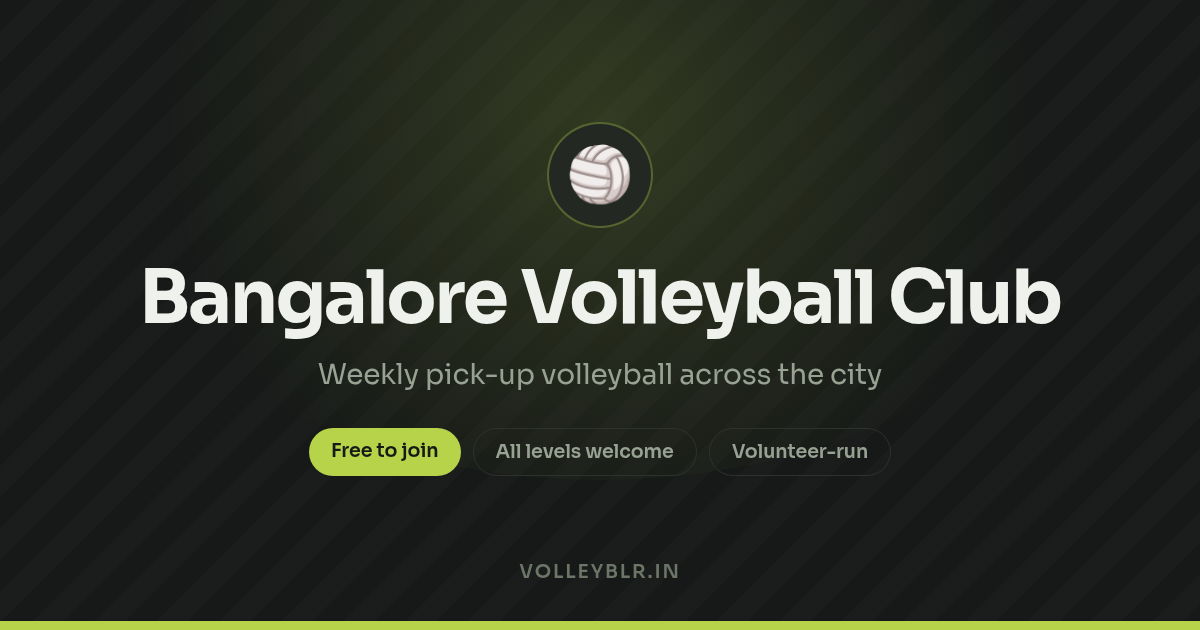
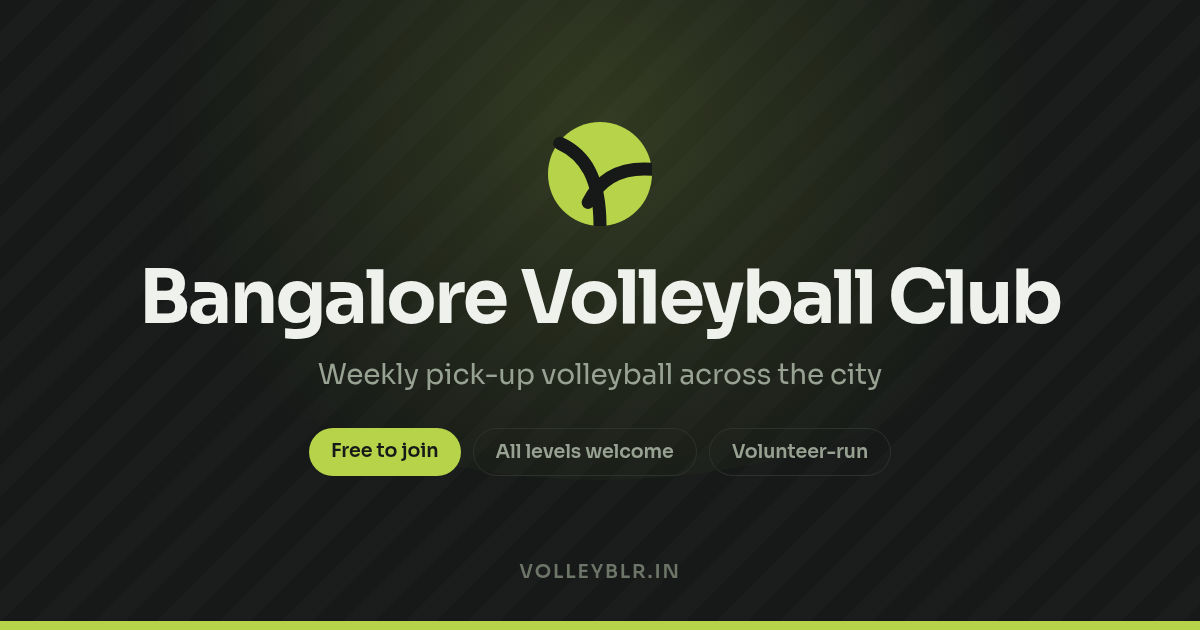
index: use the volleyball mark in the hero and preview card
The favicon carried a drawn volleyball while the hero, the wordmark and
the link preview card all used the 🏐 emoji, so the site had two
different marks depending on where you looked.  The emoji also renders
differently on every platform.

Promote the drawn mark to the primary logo.  Define its paths once as an
SVG <symbol> and reference it by <use> from the hero and the wordmark,
so the two never drift apart; favicon.svg keeps its own copy because it
needs the rounded tile behind it.

The symbol fills from var(--lime) and strokes with var(--bg), which
resolve through the <use> shadow tree, so the mark follows the palette
rather than hardcoding it a third time.

Redraw og.png with the same mark in place of the emoji.

Changed region(s): [[0.4317, 0.181, 0.555, 0.3619]]

diff --git a/index.html b/index.html
@@ -114,7 +114,8 @@ html{scroll-behavior:smooth}
 
 /* header + language pills */
 .topbar{display:flex;justify-content:space-between;align-items:center;padding:22px 0;flex-wrap:wrap;gap:10px}
-.brand{font-weight:700;font-size:15px;letter-spacing:-.3px}
+.brand{font-weight:700;font-size:15px;letter-spacing:-.3px;display:flex;align-items:center;gap:7px}
+.brand-mark{width:18px;height:18px;display:block}
 .nav{display:flex;gap:20px;align-items:center;font-size:13px}
 .nav a{color:var(--muted);text-decoration:none}
 .langs{display:flex;gap:4px;font-size:11.5px}
@@ -124,8 +125,7 @@ html{scroll-behavior:smooth}
 
 /* hero */
 .hero{padding:64px 0 20px;text-align:center}
-.hero-mark{width:68px;height:68px;border-radius:50%;background:#262c24;margin:0 auto;
-  display:flex;align-items:center;justify-content:center;font-size:30px}
+.hero-mark{width:72px;height:72px;display:block;margin:0 auto}
 .bvc-h1{font-size:36px;font-weight:700;margin:22px 0 0;letter-spacing:-.6px;line-height:1.2}
 .hero-sub{font-size:16px;color:var(--muted);margin:12px auto 0;line-height:1.7;max-width:430px}
 .cta{display:inline-block;background:var(--lime);color:var(--on-lime);text-decoration:none;
@@ -189,10 +189,23 @@ html{scroll-behavior:smooth}
 </head>
 
 <body>
+
+<!-- The club mark, defined once and referenced by <use> below. Keep this in
+     sync with favicon.svg, which carries the same paths on a rounded tile. -->
+<svg width="0" height="0" aria-hidden="true" style="position:absolute">
+  <symbol id="ball" viewBox="10 10 44 44">
+    <circle cx="32" cy="32" r="22" fill="var(--lime)"/>
+    <g fill="none" stroke="var(--bg)" stroke-width="5.5" stroke-linecap="round">
+      <path d="M15 19c11 5 17 15 17 35"/>
+      <path d="M54 30c-13-1-22 4-27 14"/>
+    </g>
+  </symbol>
+</svg>
+
 <div class="wrap">
 
   <header class="topbar">
-    <div class="brand"><span aria-hidden="true">🏐</span> BVC</div>
+    <div class="brand"><svg class="brand-mark" aria-hidden="true" focusable="false"><use href="#ball"/></svg>BVC</div>
     <nav class="nav">
       <a href="#games" data-i18n="navGames">Games</a>
       <a href="#how" data-i18n="navHow">How it works</a>
@@ -207,7 +220,8 @@ html{scroll-behavior:smooth}
 
   <main>
     <div class="hero">
-      <div class="hero-mark" aria-hidden="true">🏐</div>
+      <!-- Decorative: the club name follows in the h1. -->
+      <svg class="hero-mark" aria-hidden="true" focusable="false"><use href="#ball"/></svg>
       <h1 class="bvc-h1" data-i18n="title">Bangalore Volleyball Club</h1>
       <p class="hero-sub" data-i18n="heroSub">Weekly pick-up volleyball across the city. Volunteer-run, free to join, all levels welcome.</p>
       <a class="cta cta-lg" href="https://chat.whatsapp.com/H5lOz8hjkAP4MQtuJui6GJ" data-i18n="cta">Join the WhatsApp group</a>
